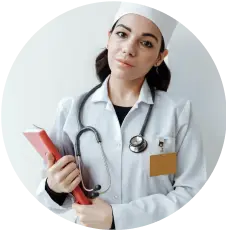
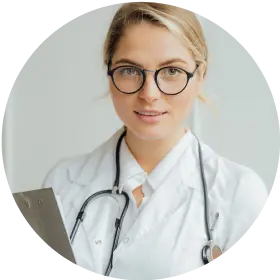
makes search fonts

diff --git a/src/partials/search.html b/src/partials/search.html
@@ -1,0 +1,109 @@
+<section class="search">
+  <div class="container">
+    <div class="search__container">
+      <div class="search__wrapper">
+        <div class="search__text">
+          <h2 class="search__title">Лікарі</h2>
+          <ul class="search__list">
+            <li class="search__item">
+              <p class="search__num">+100</p>
+              <p class="search__desc">досвідчених лікарів</p>
+            </li>
+            <li class="search__item">
+              <p class="search__num">
+                35<span class="search__small">років</span>
+              </p>
+              <p class="search__desc">середній стаж</p>
+            </li>
+          </ul>
+        </div>
+        <button class="search__btn">Знайти лікаря</button>
+      </div>
+      <ul class="search__photos">
+        <li class="search__photo">
+          <picture>
+            <source
+              srcset="
+                ./img/desktop/search/search-photo1@1x-desktop.webp 1x,
+                ./img/desktop/search/search-photo1@2x-desktop.webp 2x
+              "
+              media="(min-width: 1200px)"
+            />
+            <source
+              srcset="
+                ./img/tablet/search/search-photo1@1x-tablet.webp 1x,
+                ./img/tablet/search/search-photo1@2x-tablet.webp 2x
+              "
+              media="(min-width: 768px)"
+            />
+            <source
+              srcset="
+                ./img/mobile/search/search-photo1@1x-mobile.webp 1x,
+                ./img/mobile/search/search-photo1@2x-mobile.webp 2x
+              "
+              media="(max-width: 767px)"
+            />
+            <img
+              class="search__img"
+              alt="Веб-сайт Технокряк"
+              src="./img/mobile/search/search-photo1@1x-mobile.webp 1x"
+            />
+          </picture>
+        </li>
+        <li class="search__photo">
+          <picture>
+            <source
+              srcset="
+                ./img/desktop/search/search-photo2@1x-desktop.webp 1x,
+                ./img/desktop/search/search-photo2@2x-desktop.webp 2x
+              "
+              media="(min-width: 1766px)"
+            />
+            <source
+              srcset="
+                ./img/tablet/search/search-photo2@1x-tablet.webp 1x,
+                ./img/tablet/search/search-photo2@2x-tablet.webp 2x
+              "
+              media="(min-width: 1334px)"
+            />
+            <source
+              srcset="
+                ./img/mobile/search/search-photo2@1x-mobile.webp 1x,
+                ./img/mobile/search/search-photo2@2x-mobile.webp 2x
+              "
+              media="(max-width: 1333px)"
+            />
+            <img
+              class="search__img"
+              alt="Веб-сайт Технокряк"
+              src="./img/mobile/search/search-photo2@1x-mobile.webp 1x"
+            />
+          </picture>
+        </li>
+        <li class="search__photo">
+          <picture>
+            <source
+              srcset="
+                ./img/desktop/search/search-photo3@1x-desktop.webp 1x,
+                ./img/desktop/search/search-photo3@2x-desktop.webp 2x
+              "
+              media="(min-width: 1200px)"
+            />
+            <source
+              srcset="
+                ./img/tablet/search/search-photo3@1x-tablet.webp 1x,
+                ./img/tablet/search/search-photo3@2x-tablet.webp 2x
+              "
+              media="(max-width: 1199px)"
+            />
+            <img
+              class="search__img"
+              alt="Веб-сайт Технокряк"
+              src="./img/tablet/search/search-photo3@1x-tablet.webp 1x"
+            />
+          </picture>
+        </li>
+      </ul>
+    </div>
+  </div>
+</section>

diff --git a/src/sass/sections/_search.scss b/src/sass/sections/_search.scss
@@ -1,0 +1,65 @@
+.search {
+
+    &__title {
+        font-family: "Open Sans", sans-serif;
+        font-weight: 600;
+        font-size: 48px;
+        line-height: 0.92;
+        color: $dark-accent-color;
+    }
+
+    &__num {
+        font-family: "Open Sans", sans-serif;
+        font-weight: 400;
+        font-size: 96px;
+        line-height: 0.46;
+        color: #d1a4bc;
+    }
+
+    &__small {
+        font-family: "Open Sans", sans-serif;
+        font-weight: 600;
+        font-size: 32px;
+        color: #d1a4bc;
+    }
+
+    &__desc {
+        font-family: "Open Sans", sans-serif;
+        font-weight: 400;
+        font-size: 32px;
+        color: $dark-accent-color;
+    }
+
+    &__btn {
+        font-family: "Open Sans", sans-serif;
+        font-weight: 400;
+        font-size: 32px;
+        line-height: 1.38;
+        color: $additional-color;
+        background-color: $light-accent-color;
+        padding: 18px 208px;
+        border-radius: 50px;
+    }
+
+    &__photo:first-child &__img {
+        border: 2px solid $light-accent-color;
+        border-radius: 133px;
+        width: 270px;
+        height: 270px;
+    }
+
+    &__photo:nth-child(2) &__img {
+        border: 2px solid #fce296;
+        border-radius: 135px;
+        width: 266px;
+        height: 270px;
+    }
+
+    &__photo:last-child &__img {
+        border: 2px solid #f3dfea;
+        border-radius: 195px;
+        width: 391px;
+        height: 398px;
+    }
+
+}
